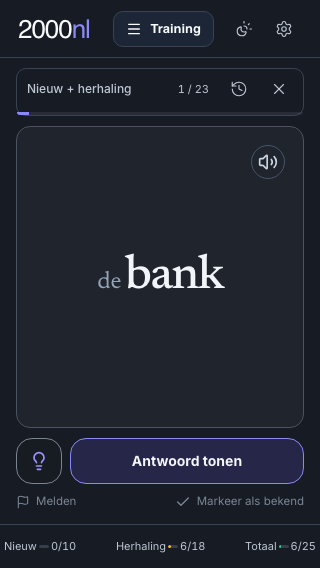
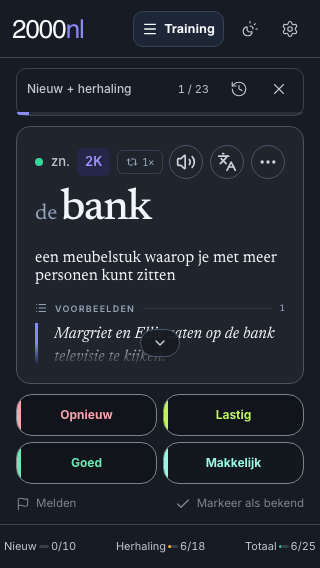
test(ui): close stable frame visual matrix

diff --git a/apps/ui/playwright/tests/stable-app-frame.spec.ts b/apps/ui/playwright/tests/stable-app-frame.spec.ts
@@ -120,6 +120,30 @@ test.describe("stable application frame", () => {
     await page.screenshot({
       path: testInfo.outputPath("desktop-active-training-light.png"),
     });
+
+    let navigation = await visibleDesktopNavigation(page);
+    await navigation.getByRole("button", { name: "Bibliotheek" }).click();
+    await expect(
+      page.getByRole("heading", { name: "Bibliotheek" }),
+    ).toBeVisible();
+    const libraryFrame = await frameSnapshot(page);
+    expect(libraryFrame.headerBox).toEqual(sessionFrame.headerBox);
+    expect(libraryFrame.colors).toEqual(sessionFrame.colors);
+    await page.screenshot({
+      path: testInfo.outputPath("desktop-library-light.png"),
+    });
+
+    navigation = await visibleDesktopNavigation(page);
+    await navigation.getByRole("button", { name: "Statistieken" }).click();
+    await expect(
+      page.getByRole("heading", { name: "Statistieken" }),
+    ).toBeVisible();
+    const statisticsFrame = await frameSnapshot(page);
+    expect(statisticsFrame.headerBox).toEqual(sessionFrame.headerBox);
+    expect(statisticsFrame.colors).toEqual(sessionFrame.colors);
+    await page.screenshot({
+      path: testInfo.outputPath("desktop-statistics-light.png"),
+    });
   });
 
   test("Library, Statistics and Settings return to the exact active card and side", async ({
@@ -293,8 +317,19 @@ test.describe("stable application frame", () => {
     await page.emulateMedia({ colorScheme: "dark", reducedMotion: "reduce" });
     await preparePilotPage(page);
     await startSession(page);
+    const stage = page.getByTestId("training-sense-card-stage");
+    await expect(stage).toHaveAttribute("data-side", "face");
+    await page.getByRole("button", { name: answerButton }).click();
+    await expect(stage).toHaveAttribute("data-side", "answer");
 
     await expect(page.getByTestId("app-header")).toBeVisible();
+    const brand = page.getByLabel("2000nl");
+    await expect(brand).toBeVisible();
+    expect(
+      await brand.evaluate(
+        (element) => element.scrollWidth <= element.clientWidth,
+      ),
+    ).toBe(true);
     await expect(
       page.getByRole("button", { name: /Navigatie: Training/ }),
     ).toBeVisible();

diff --git a/apps/ui/components/navigation/AppFrame.module.css b/apps/ui/components/navigation/AppFrame.module.css
@@ -37,15 +37,14 @@
 
 .brand {
   display: block;
-  min-width: 0;
+  min-width: max-content;
   margin: 0;
-  overflow: hidden;
   color: var(--app-frame-ink);
   font-size: 26px;
   font-weight: 400;
   line-height: 1;
   letter-spacing: -0.04em;
-  text-overflow: ellipsis;
+  white-space: nowrap;
 }
 
 .brandAccent {
@@ -200,5 +199,19 @@
     display: flex;
     min-width: 0;
     justify-content: flex-end;
+  }
+}
+
+@media (max-width: 359px) {
+  .header {
+    gap: 8px;
+    padding-right: 12px;
+    padding-left: 12px;
+  }
+
+  .mobileMenuButton {
+    gap: 6px;
+    padding-right: 8px;
+    padding-left: 8px;
   }
 }

diff --git a/docs/design/app-frame-2026-09/README.md b/docs/design/app-frame-2026-09/README.md
@@ -149,6 +149,8 @@ blocking of destination, History and Close controls during a delayed mutation at
 ## Representative implementation renders
 
 - [1440 × 960 · active Training · light](assets/1440-active-training-light.png)
+- [1440 × 960 · Library · light](assets/1440-library-light.png)
+- [1440 × 960 · Statistics · light](assets/1440-statistics-light.png)
 - [1440 × 960 · Library · dark](assets/1440-library-dark.png)
 - [390 × 844 · Training menu open · dark](assets/390-training-menu-dark.png)
 - [320 × 568 · Training · dark](assets/320-training-dark.png)
